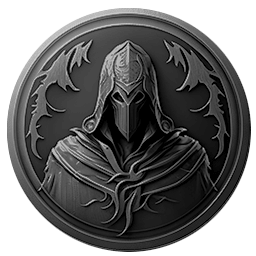
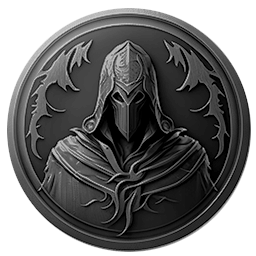
add subclasses sprites

diff --git a/SolastaUnfinishedBusiness/Properties/Resources.Designer.cs b/SolastaUnfinishedBusiness/Properties/Resources.Designer.cs
@@ -452,16 +452,6 @@ namespace SolastaUnfinishedBusiness.Properties {
         /// <summary>
         ///   Looks up a localized resource of type System.Byte[].
         /// </summary>
-        public static byte[] RoguishArcaneScoundrel {
-            get {
-                object obj = ResourceManager.GetObject("ArcaneScoundrel", resourceCulture);
-                return ((byte[])(obj));
-            }
-        }
-        
-        /// <summary>
-        ///   Looks up a localized resource of type System.Byte[].
-        /// </summary>
         public static byte[] ArtisanToolSmithTools {
             get {
                 object obj = ResourceManager.GetObject("ArtisanToolSmithTools", resourceCulture);
@@ -1625,9 +1615,39 @@ namespace SolastaUnfinishedBusiness.Properties {
         /// <summary>
         ///   Looks up a localized resource of type System.Byte[].
         /// </summary>
+        public static byte[] RoguishArcaneScoundrel {
+            get {
+                object obj = ResourceManager.GetObject("RoguishArcaneScoundrel", resourceCulture);
+                return ((byte[])(obj));
+            }
+        }
+        
+        /// <summary>
+        ///   Looks up a localized resource of type System.Byte[].
+        /// </summary>
         public static byte[] RoguishDuelist {
             get {
                 object obj = ResourceManager.GetObject("RoguishDuelist", resourceCulture);
+                return ((byte[])(obj));
+            }
+        }
+        
+        /// <summary>
+        ///   Looks up a localized resource of type System.Byte[].
+        /// </summary>
+        public static byte[] RoguishRaven {
+            get {
+                object obj = ResourceManager.GetObject("RoguishRaven", resourceCulture);
+                return ((byte[])(obj));
+            }
+        }
+        
+        /// <summary>
+        ///   Looks up a localized resource of type System.Byte[].
+        /// </summary>
+        public static byte[] RoguishSlayer {
+            get {
+                object obj = ResourceManager.GetObject("RoguishSlayer", resourceCulture);
                 return ((byte[])(obj));
             }
         }

diff --git a/SolastaUnfinishedBusiness/Subclasses/RoguishSlayer.cs b/SolastaUnfinishedBusiness/Subclasses/RoguishSlayer.cs
@@ -7,6 +7,8 @@ using SolastaUnfinishedBusiness.Builders;
 using SolastaUnfinishedBusiness.Builders.Features;
 using SolastaUnfinishedBusiness.CustomBehaviors;
 using SolastaUnfinishedBusiness.CustomInterfaces;
+using SolastaUnfinishedBusiness.CustomUI;
+using SolastaUnfinishedBusiness.Properties;
 using static RuleDefinitions;
 using static SolastaUnfinishedBusiness.Api.DatabaseHelper;
 using static SolastaUnfinishedBusiness.Api.DatabaseHelper.CharacterSubclassDefinitions;
@@ -172,7 +174,8 @@ internal sealed class RoguishSlayer : AbstractSubclass
 
         Subclass = CharacterSubclassDefinitionBuilder
             .Create(Name)
-            .SetGuiPresentation(Category.Subclass, RangerShadowTamer)
+            .SetGuiPresentation(Category.Subclass,
+                Sprites.GetSprite("RoguishSlayer", Resources.RoguishSlayer, 256))
             .AddFeaturesAtLevel(3, featureElimination)
             .AddFeaturesAtLevel(9, featureChainOfExecution)
             .AddFeaturesAtLevel(13, powerCloakOfShadows)

diff --git a/SolastaUnfinishedBusiness/Subclasses/RoguishRaven.cs b/SolastaUnfinishedBusiness/Subclasses/RoguishRaven.cs
@@ -62,7 +62,8 @@ internal sealed class RoguishRaven : AbstractSubclass
 
         Subclass = CharacterSubclassDefinitionBuilder
             .Create("RoguishRaven")
-            .SetGuiPresentation(Category.Subclass, RangerShadowTamer)
+            .SetGuiPresentation(Category.Subclass,
+                Sprites.GetSprite("RoguishRaven", Resources.RoguishRaven, 256))
             .AddFeaturesAtLevel(3,
                 featureSetRavenSharpShooter,
                 BuildHeartSeekingShot())
